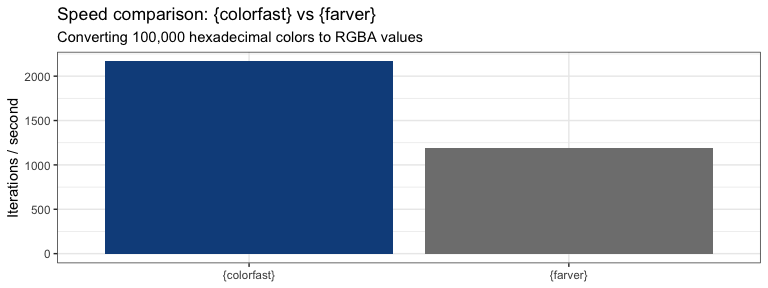
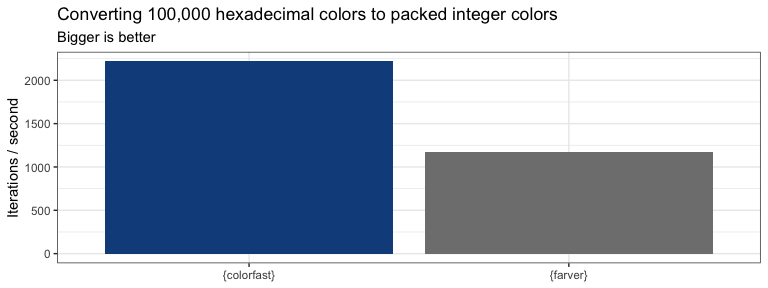
update benchmarks [no ci]

diff --git a/README.md b/README.md
@@ -92,9 +92,9 @@ knitr::kable(res_col[,1:5])
 
 | expression  |     min |  median |    itr/sec | mem_alloc |
 |:------------|--------:|--------:|-----------:|----------:|
-| baseR       |  16.1ms |  16.2ms |   61.75402 |     313KB |
-| {farver}    | 563.3µs | 582.6µs | 1696.09019 |     117KB |
-| {colorfast} | 135.3µs | 151.1µs | 6493.78611 |     156KB |
+| baseR       |  16.1ms |  16.2ms |   61.52921 |     313KB |
+| {farver}    | 563.1µs | 580.9µs | 1704.53110 |     117KB |
+| {colorfast} | 135.8µs | 151.2µs | 6519.31602 |     156KB |
 
 ``` r
 
@@ -134,11 +134,11 @@ res_hex <- bench::mark(
 knitr::kable(res_hex[,1:5])
 ```
 
-| expression  |      min |   median |   itr/sec | mem_alloc |
-|:------------|---------:|---------:|----------:|----------:|
-| baseR       |   2.83ms |   3.01ms |  329.9474 |    3.05MB |
-| {farver}    | 889.95µs |   1.05ms |  942.0202 |    3.05MB |
-| {colorfast} | 394.21µs | 468.38µs | 2112.3117 |    1.53MB |
+| expression  |      min | median |   itr/sec | mem_alloc |
+|:------------|---------:|-------:|----------:|----------:|
+| baseR       |   2.87ms | 3.04ms |  326.4886 |    3.05MB |
+| {farver}    | 892.16µs | 1.06ms |  942.9869 |    3.05MB |
+| {colorfast} | 394.46µs |  483µs | 2067.7688 |    1.53MB |
 
 ``` r
 
@@ -168,8 +168,8 @@ knitr::kable(res_int[,1:5])
 
 | expression  |   min | median |  itr/sec | mem_alloc |
 |:------------|------:|-------:|---------:|----------:|
-| {farver}    | 795µs |  833µs | 1187.008 |     397KB |
-| {colorfast} | 422µs |  455µs | 2166.184 |     391KB |
+| {farver}    | 795µs |  843µs | 1178.234 |     397KB |
+| {colorfast} | 422µs |  447µs | 2217.669 |     391KB |
 
 </details>
 
